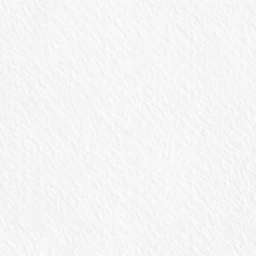
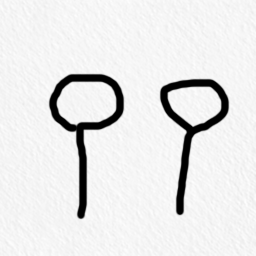
仕様変更

Changed region(s): [[0.1875, 0.2812, 0.5, 0.875], [0.625, 0.2812, 0.9062, 0.8438]]

diff --git a/Assets/Scripts/PixAcces.cs b/Assets/Scripts/PixAcces.cs
@@ -4,7 +4,7 @@ using UnityEngine;
 
 public class PixAcces : MonoBehaviour
 {
-    [SerializeField]
+    //[SerializeField]
     Renderer renderer;
     [SerializeField]
     Color[] penColor;
@@ -17,6 +17,8 @@ public class PixAcces : MonoBehaviour
 
     void Start()
     {
+        renderer = GetComponent<Renderer>();
+
         Texture2D mainTexture = (Texture2D)renderer.material.mainTexture;
         Color[] pixels = mainTexture.GetPixels();
 
@@ -35,7 +37,9 @@ public class PixAcces : MonoBehaviour
             {
                 if ((p - new Vector2(x, y)).magnitude < 5)
                 {
-                    buffer.SetValue(penColor[colorCnt], x + 256 * y);
+                    Color cccc = penColor[colorCnt];
+                    cccc.a = buffer[x + 256 * y].a;
+                    buffer.SetValue(cccc, x + 256 * y);
                 }
             }
         }
@@ -57,15 +61,17 @@ public class PixAcces : MonoBehaviour
     {
         if (Input.GetMouseButton(0))
         {
-            
+
             TimerCount();
 
             Ray ray = Camera.main.ScreenPointToRay(Input.mousePosition);
             RaycastHit hit;
             if (Physics.Raycast(ray, out hit, 100.0f))
             {
-                Draw(hit.textureCoord * 256);
+                if (gameObject.GetInstanceID() == hit.collider.gameObject.GetInstanceID())
+                    Draw(hit.textureCoord * 256);
             }
+
 
             drawTexture.SetPixels(buffer);
             drawTexture.Apply();

diff --git a/Assets/Scripts/PixCam.cs b/Assets/Scripts/PixCam.cs
@@ -1,0 +1,46 @@
+using System.Collections;
+using System.Collections.Generic;
+using UnityEngine;
+
+public class PixCam : MonoBehaviour
+{
+    Texture2D texture2D;
+    RenderTexture renderTexture;
+
+    int GetPixel()
+    {
+        texture2D = new Texture2D(Screen.width, Screen.height, TextureFormat.RGB24, false);
+        renderTexture = new RenderTexture(texture2D.width, texture2D.height, 24);
+
+        RenderTexture prev = Camera.main.targetTexture;
+        Camera.main.targetTexture = renderTexture;
+        Camera.main.Render();
+
+        RenderTexture.active = renderTexture;
+
+        texture2D.ReadPixels(new Rect(0, 0, Screen.width, Screen.height), 0, 0);
+        texture2D.Apply();
+
+        //使い終わったら戻してあげる
+        Camera.main.targetTexture = prev;
+
+        Color[] color = texture2D.GetPixels();
+        int count = 0;
+        for (int i = 0; i < color.Length; i++)
+        {
+            if (color[i].r == color[i].g && color[i].g == color[i].b)
+            {
+                count++;
+            }
+        }
+        return count;
+    }
+
+    private void Update()
+    {
+        if (Input.GetButtonUp("Fire1"))
+        {
+            Debug.Log("グレースケールピクセルの数" + GetPixel());
+        }
+    }
+}

diff --git a/Assets/Scripts/PixCheck.cs b/Assets/Scripts/PixCheck.cs
@@ -1,0 +1,34 @@
+using System.Collections;
+using System.Collections.Generic;
+using UnityEngine;
+using UnityEngine.UI;
+
+public class PixCheck : MonoBehaviour {
+
+    Texture2D mainTexture;
+    Color[] pixels;
+
+    void Start ()
+    {
+
+    }
+
+    void Update ()
+    {
+        if (Input.GetMouseButtonUp(0))
+        {
+            mainTexture = (Texture2D)GetComponent<Renderer>().material.mainTexture;
+            pixels = mainTexture.GetPixels();
+
+            int count = 0;
+
+            foreach(Color c in pixels)
+            {
+                if (c == Color.white)
+                    count++;
+            }
+
+            Debug.Log(count);
+        }
+	}
+}

diff --git a/Assets/Panel.cs b/Assets/Panel.cs
@@ -1,0 +1,24 @@
+using System.Collections;
+using System.Collections.Generic;
+using UnityEngine;
+
+public class Panel : MonoBehaviour {
+
+    public Material mat;
+
+    void Awake()
+    {
+        //var r = GetComponent<Renderer>();
+        //r.material = Instantiate(mat);
+    }
+
+    // Use this for initialization
+    void Start () {
+
+    }
+	
+	// Update is called once per frame
+	void Update () {
+		
+	}
+}
